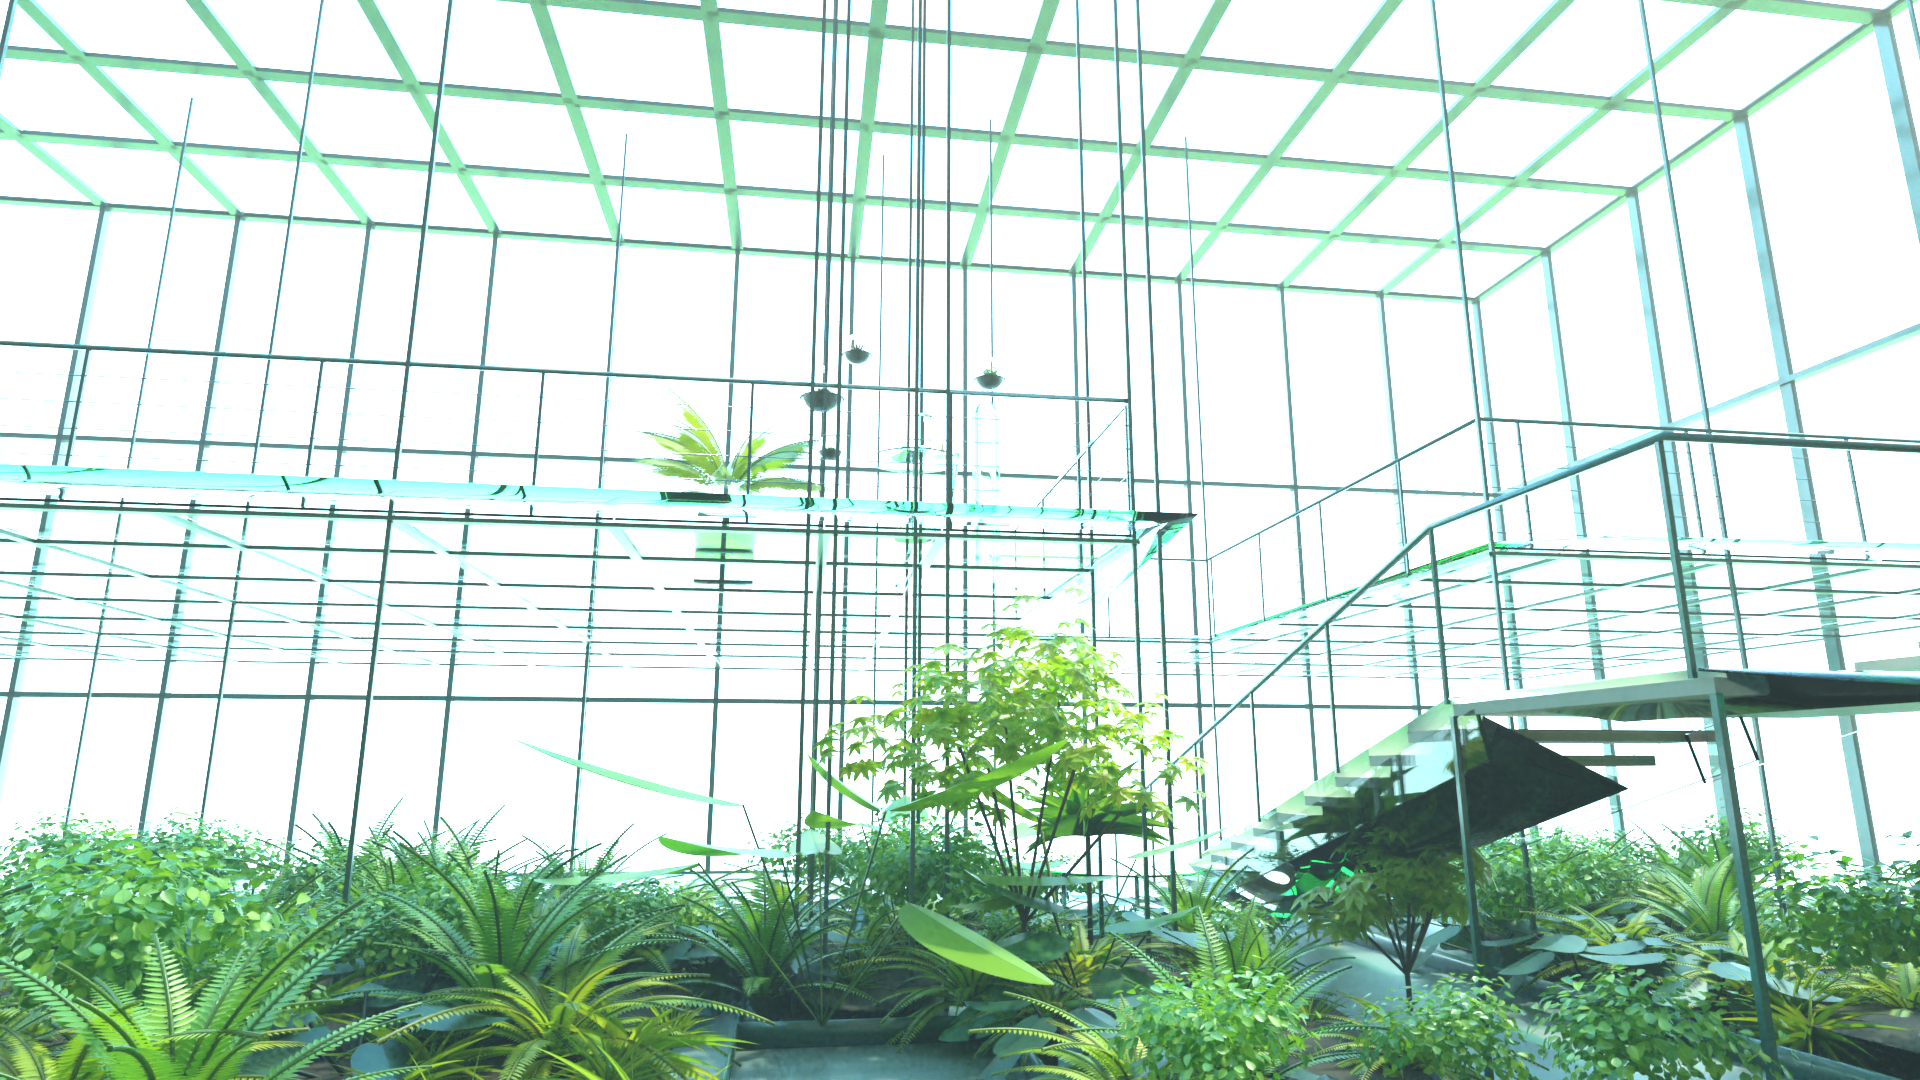
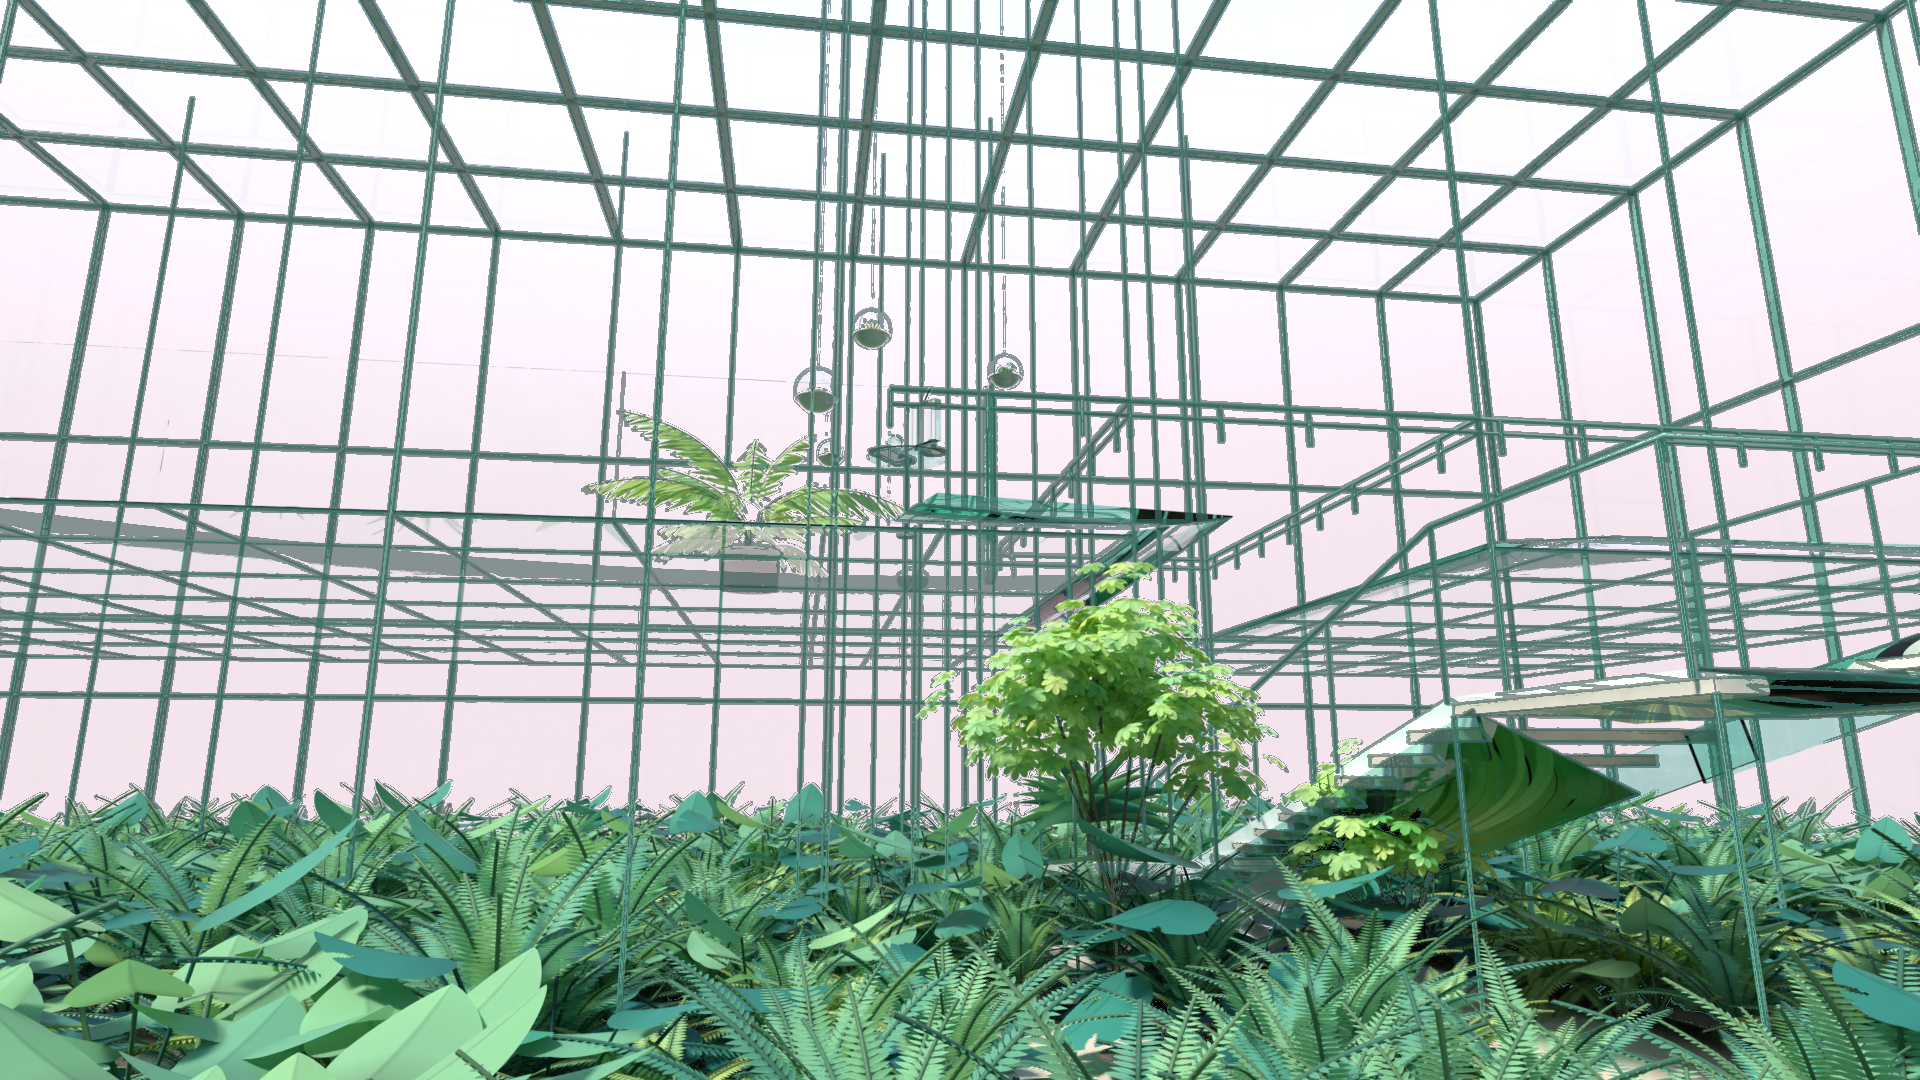
玻璃中庭：全分辨率重渲、新增花园俯视机位、说明更新

diff --git a/Other/Greenhouse/Scenes/GlassAtrium/README.md b/Other/Greenhouse/Scenes/GlassAtrium/README.md
@@ -1,7 +1,7 @@
 # GlassAtrium：玻璃中庭温室（`Nitia` 机位）
 
 参考画：`Reference/Nitia.webp`（2166 × 3000，原画）和 `Reference/Nitia_clean.webp`（去掉人物的版本，已按原画逐像素配准：
-SIFT 特征 + 仿射，内点残差 1.0 px）。人物不在还原范围内。
+SIFT 特征 + 仿射，内点残差 1.0 px）。人物不在还原范围内，所有对比都对去人物版本做。
 渲染：`Renders/Nitia.png`（原画机位，和原画同分辨率），`Renders/view_*.png`（自由机位）。
 
 ```bash
@@ -10,11 +10,11 @@ blender -b -P Other/build.py -- Greenhouse/Scenes/GlassAtrium --render nitia.png
 blender -b -P Other/build.py -- Greenhouse/Scenes/GlassAtrium --view overview --render overview.png
 ```
 
-自由机位：`gallery`（画廊）、`garden`（从中庭地面往上看）、`stair`（楼梯平台）、`overview`（全景鸟瞰）、`table`（边桌特写）。
-`.blend` 里整座建筑都在，任意换机位看到的是同一个世界。
+自由机位：`gallery`（画廊）、`garden`（从中庭地面往上看）、`stair`（楼梯平台）、`overview`（全景鸟瞰）、`table`（边桌特写）、
+`plants`（画廊外沿俯看花园）。`.blend` 里整座建筑、花园和窗外的城市都在，任意换机位看到的是同一个世界。
 
-全部几何都来自 `Greenhouse/Kit` 的几何节点资产，场景只是数据（`scene.json`）。参考画只用来解相机、量尺寸、拟合颜色，
-渲染时从不采样参考画，没有任何投影贴图。
+全部几何都来自 `Greenhouse/Kit` 的几何节点资产，场景只是数据（`scene.json`、`data/planting.json`）。参考画只用来解相机、
+量尺寸、拟合位姿和灯光，渲染时从不采样参考画，没有任何投影贴图。
 
 ## 1. 相机解算
 
@@ -28,27 +28,28 @@ blender -b -P Other/build.py -- Greenhouse/Scenes/GlassAtrium --view overview --
 | 朝向 | 偏航 23.53°，俯仰 −25.63°，滚转 −0.06° |
 | 位置 | (0, 0, 2.5) m：画廊玻璃地面上方 2.5 m |
 
-尺度：画廊外沿栏杆高 1.04 m、立柱间距 1.42 m，与相机高度 2.5 m 一起让每个物体都有合理的尺寸
-（吊球半径 0.12–0.20 m，高玻璃瓶 1.8 m，边桌 0.6 m 高）。
+尺度：画廊外沿栏杆高 1.04 m，与相机高度 2.5 m 一起让每个物体都有合理的尺寸。
+这次解算发现了 `Core/camera.py` 的一处错误：主点偏移原来按 `max(W, H)` 换算，竖幅画面会整体错位约 100 px；已改为按宽度换算。
 
-这次解算发现了 `Core/camera.py` 的一处错误：主点偏移原来按 `max(W, H)` 换算，而相机的传感器按水平方向适配，
-竖幅画面会整体错位约 100 px；已改为按宽度换算（横幅场景不受影响）。
+## 2. 空间（原点 = 机位正下方的画廊地面，+Y 横穿画廊指向中庭，+X 沿画廊，Z 向上，单位米）
 
-## 2. 空间（`scene.json`，原点 = 机位正下方的画廊地面，+Y 横穿画廊指向中庭，+X 沿画廊，Z 向上，单位米）
-
-* **画廊**：玻璃地面（顶面 z = 0）铺在 30 × 80 mm 的绿色钢梁上，外沿一排磨砂玻璃；外沿在 y = 4.18，1.04 m 栏杆
-  （五道横杆 + 玻璃栏板），栏杆在 x = −2.16 转角折回。
-* **立柱**：30 mm 方钢，从中庭地面（z = −3.2）直通屋顶（z = 7.22）。每一根都按原画里的竖线落位。
-* **西侧楼梯**：宽 1.5 m 的双跑楼梯，踏步 0.433 m、踢面 0.123 m；下跑 14 级从中庭地面到 z = −1.35 的平台，
-  上跑 11 级转向西，到达西翼画廊。踏步位置由原画里的 6 条踏步前沿线联合拟合（残差 16 px rms）。
-* **中庭花园**：地面铺石板，楼梯两侧、画廊下、东侧各有种植池。每株主景植物（`Painted ...`）都放在原画里它那团植物的位置：把那团植物中心像素按解出的相机、在它树冠的高度反投影到 3D；鹅掌柴、龟背竹、海芋、芭蕉、散尾葵、肾蕨、
-  吊兰、龙血树，外加按密度随机散布的灌木和地被（`GH.Garden.Planting`，原型在不渲染的 `library` 集合里）。
-* **画廊陈设**：高玻璃方瓶（空心，1.8 m）、圆底烧瓶、高脚玻璃椅；外沿的边桌上有黄铜花插、玻璃块、玻璃球和一本书；
-  栏杆内侧种着一盆散尾葵。
-* **吊球**：四个开口玻璃吊球，里面是白石子和多肉（芦荟、石莲、小灌木），开口朝向机位，从屋顶用细线吊下。
-  每个球的中心和半径都由原画里的圆轮廓反投影解出。
-* **外壳**：四面幕墙（2 m 竖梃、3.9 m 横档）和 2 m 网格的玻璃屋顶。温室坐落在两层高的玻璃裙楼上，
-  窗外是比中庭地面低 8.8 m 的草坪和行道树，远处是城市塔楼；整个空间充满一层薄薄的光雾，窗外的雾更浓。
+* **画廊**：玻璃地面（顶面 z = 0）铺在抛光玉石细梁上，楼梯井和外沿以北的中庭敞开。外沿是无框玻璃栏板，
+  顶上两道横杆（0.91 / 1.04 m）之间一排短玉石立柱——原画只在两道横杆之间画了立柱。
+* **立柱**：20 mm 玉石方柱，按原画里的竖线落位；原画只在画廊地面以下出现的几根止于地面下。
+* **楼梯**：宽 1.5 m 的双跑楼梯，踏步 0.433 m、踢面 0.123 m；下跑 14 级到 z = −1.354 的平台，上跑 11 级转向西翼。
+  踏步位置由原画的踏步前沿线联合拟合（残差 16 px rms）。
+* **中庭花园**：`calibration/planting_plan.py` 把花园地面分成 0.5 m 的格子，把每格上方 0.3–2.6 m 的高度点投回原画：
+  原画在那里画着植物，就允许种到那么高（地被 / 林下 / 灌木三档）；看到的是浅色地面就铺石板；只隔着玻璃器皿看得到的格子
+  取邻格的档；机位看不到的格子按设计种满，只留出楼梯脚、北墙前的铺装庭院和园桌下的地面。主景植物（`Painted ...`）
+  各放在原画里那团植物中心像素按树冠高度反投影到的位置。北侧看不见的角落有三棵伞树，树荫落在庭院地面上，是原画栏杆后面
+  那片地面绿粉斑驳的来源。
+* **画廊陈设**：每件都按原画拟合位姿——高玻璃方瓶、扁球烧瓶（原画画成扁的，用 `Squash` 做成扁球体）、边桌，
+  桌上的手机、玻璃块、玻璃球、花插按原画的角点最小二乘解出位置与朝向；栏杆内侧一盆双干散尾葵。
+* **吊球**：四个开口玻璃吊球，每个球的中心和半径由原画的圆轮廓反投影解出，开口朝向机位。
+* **外壳与窗外**：四面幕墙（北墙是结构胶玻璃，只有横档）和 2 m 网格玻璃屋顶。温室在 117 m 高的塔楼顶上：
+  画面最上一行也在地平线以下 6°，所以窗外的粉白是阳光下的城市烟霭，不是天空。塔北侧 16 m 以下是裙楼屋顶花园，
+  那些树冠按原画树冠轮廓的顶点定位（30–50 m 外，树干和屋面都在视线以下），更远是一栋矮楼屋顶的树和邻楼。
+  城市烟霭是包住温室的体积（温室内部挖空），室内另有一层前向散射的薄光雾。
 
 ## 3. 原画中"反 3D"的结构与处理
 
@@ -56,43 +57,49 @@ blender -b -P Other/build.py -- Greenhouse/Scenes/GlassAtrium --view overview --
 
 | 原画现象 | 处理 |
 |----------|------|
-| 楼梯的踏步前沿只收敛到竖直灭点，看不出上下关系；踏步明显比普通楼梯宽而浅 | 做成宽 1.5 m、踏步 0.433 m / 踢面 0.123 m 的景观楼梯（逐级拟合原画前沿线），再加平台和转向西翼的上跑，楼梯有出发点也有去处 |
-| 椅子腿画得前后矛盾：一根斜伸到座面中心，一根竖直落地 | 做成一把合理的高脚玻璃椅，四条外撇的腿落在原画里的四个脚点上 |
-| 窗外的树冠几乎贴着玻璃，树干却看不到根部 | 温室放在裙楼顶上，行道树种在 8.8 m 下方的街面，树冠正好长到窗外 |
-| 中庭里的植物都在玻璃地面正下方很近的位置 | 中庭层高取 3.2 m（不是更常见的 4.5 m），种植池高出地面，植物冠层就在玻璃下方 |
-| 画廊外沿的一排地面比其他玻璃白 | 外沿一排是磨砂玻璃 |
-| 立柱在外沿成对出现、间距不均（0.19 / 0.23 / 0.56 m） | 按原画位置保留：结构柱加栏杆立柱，两套构件并排 |
+| 边桌桌面椭圆比该处水平圆盘能投影出的更圆（纵横比 0.57，而这条视线上任何水平圆盘最多 0.44） | 圆盘匹配原画的宽度和中心，桌上物件按原画角点定位 |
+| 烧瓶画得比球扁 | 做成扁球体烧瓶（`Squash` 0.665），轮廓按原画椭圆拟合 |
+| 楼梯前沿只收敛到竖直灭点，踏步比普通楼梯宽而浅 | 宽 1.5 m、踏步 0.433 m 的景观楼梯，加平台和转向西翼的上跑，楼梯有出发点也有去处 |
+| 窗外树冠贴着玻璃，却看不到树干和地面 | 树种在低 16 m 的裙楼屋顶，树冠顶点按原画轮廓，树干和屋面落在所有穿过幕墙的视线以下 |
+| 立柱成对出现、间距不均 | 按原画位置保留：结构柱加栏杆立柱，两套构件并排 |
+| 去人物参考画里没有原画中的椅子 | 不做椅子 |
 
-## 4. 外观与标定
+## 4. 外观
 
-Cycles，Standard 视图变换，不调色（`look` 为空）。材质都是程序化的：建筑玻璃是带绿色吸收的真实电介质（侧看深青、正看几乎透明），
-阴影光线用带色透明，阳光能穿过玻璃地面照进花园；玻璃器皿有体积吸收；叶片按每片叶子自己的 `leaf_color` 着色，
-带中脉暗化、蜡质高光和透光；室内是一层前向散射的薄光雾。
+Cycles，Standard 视图变换，不调色。
 
-**窗外的粉色**：原画机位是俯视，地平线在画面上方之外，所以窗外那片粉白不是天空，而是街面方向被城市烟霭吞没的远景。
-`GH.Smog` 用空气透视的闭式解：吸收介质 + 按密度发光，沿视线透射率为 T 时画面 = 原景 × T + 烟霭色 × (1 − T)，
-不需要大量体积反弹就能得到明亮的烟霭。
+* **玉**：框架、梁、立柱、栏杆是抛光玉石（次表面散射 + 清漆），玻璃器皿是带体积吸收的电介质玉色玻璃（正看几乎透明，
+  侧看和边缘深青），高方瓶内壁空心、烧瓶装着绿水。
+* **建筑玻璃**：镀减反射膜——反射率曲线等于 IOR 1.22 的电介质（正看约 1%，掠射时变成镜面），所以脚下的玻璃地面清透，
+  远处的地面泛白，映出粉色的墙。
+* **光穿过玻璃**：玻璃对相机光线和镜面反射光线是真实电介质；对阴影光线和漫反射光线是带色透明（菲涅尔损失 × 半壁厚的
+  比尔–朗伯透射）——折射后的光本来是焦散路径，渲染器不追踪，否则阳光和天光都进不了温室。
+* **墨线**：原画是勾线的。另开一个视图层，用对象随机值 + 元素编号着色，在合成器里对身份色和法线做 Sobel 得到轮廓与折线；
+  玻璃标记为可透视（只在掠射的边缘出线），植物和铺装标记为安静（不出线，并挖掉背后的线）。
+* **城市烟霭**：`GH.Smog` 用空气透视的闭式解：吸收介质 + 按密度发光，只对非漫反射光线发光。
 
-**灯光反解**（`calibration/fit_lights.py`）：光照对光源强度是线性的，太阳、天空、城市烟霭各放进一个 Cycles light group，
-一次渲染得到每组的线性图像，再在显示空间（sRGB 编码、白点截断之后）对去人物参考画做鲁棒误差最小化，
-**逐通道**解出每组的 RGB 权重——同时解出每个光源的亮度和颜色；`--apply` 写回 `scene.json`
-（太阳功率与颜色、天空强度与色板覆盖 `color:sky_*`、烟霭亮度与 `color:smog`）。
+## 5. 灯光标定（`calibration/fit_lights.py`）
+
+光照对光源强度是线性的：日光（太阳灯 + 天空，天光是被空气散射的阳光，两者保持场景给定的比例
+`sky.sun_ratio` = 0.15——雾天水平面上约 30% 的光来自天空）、城市烟霭各放进一个 Cycles light group，一次渲染得到每组的
+线性图像，再只解每组的强度（颜色留给材质）。目标 = 1/60 画宽高斯模糊后的显示值误差 + 画面五条横带各自的 CIELAB 分位数误差
+（每条带的暗部、中间调、高光和它们的色相），Powell 多起点求最低的谷。天空若不和太阳绑定，会被拟合得比任何天空都亮，
+每块玻璃都会映出一层乳白。
 
 ```bash
-blender -b -P Other/Greenhouse/Scenes/GlassAtrium/calibration/fit_lights.py -- groups.npz --samples 64 --scale 0.25
+blender -b -P Other/Greenhouse/Scenes/GlassAtrium/calibration/fit_lights.py -- groups.npz --samples 48 --scale 0.25
 python Other/Greenhouse/Scenes/GlassAtrium/calibration/fit_lights.py groups.npz --apply
 ```
 
-`calibration/fit_grade.py` 可在未调色渲染上拟合直方图匹配的色调曲线；在灯光反解之后它不再降低误差，所以当前镜头不调色。
-
-## 5. 与参考画的定量对比（`Renders/Nitia.png`，2166 × 3000，对去人物参考画）
+## 6. 与去人物参考画的定量对比（`Renders/Nitia.png`，2166 × 3000）
 
 | 指标 | 值 |
 |------|----|
-| 结构线对齐（不含植物与陈设的钢玻结构轮廓，逐像素到原画边缘的距离） | 中位数 3.0 px；2 px 内 41.9%，4 px 内 60.1%，8 px 内 79.9% |
-| 逐像素平均绝对误差（sRGB 0–1） | 0.201 |
-| 主景植物按原画逐团反投影落位之后 | 色调误差不变（0.114），构成与原画一致 |
-| 色调误差（1/60 画宽高斯模糊后，只看颜色与明暗分布） | 0.114 |
-| 标定历程（色调误差） | 初版 0.178 → 远景烟霭 0.122 → 灯光逐通道反解 0.114 |
+| 结构线对齐（钢玻结构与楼梯的轮廓，逐像素到原画边缘的距离） | 中位数 2.8 px；2 px 内 44.9%，4 px 内 62.7%，8 px 内 83.7% |
+| 逐像素平均绝对误差（sRGB 0–1） | 0.206 |
+| 色调误差（1/60 画宽高斯模糊后，只看颜色与明暗分布） | 0.109 |
+| 模糊后色差 ΔE*ab | 中位数 15.3，90% 分位 28.6 |
+| 标定历程（色调误差） | 初版 0.178 → 远景烟霭 0.122 → 灯光反解 0.114 → 玻璃对漫射光透明、日光组、分带色阶 0.109 |
 
-剩余差异主要是逐片叶子的构成（原画的植物是手绘的，位置与轮廓无法从单张画面唯一确定）、手绘的高光笔触和光柱强度。
+剩余差异：逐片叶子的构成（手绘植物的位置与轮廓无法从单张画面唯一确定）；原画花园里成片的斑驳日光与深青阴影比渲染更强；
+栏杆后庭院地面的斑驳树影；手绘的高光笔触和光柱强度。
